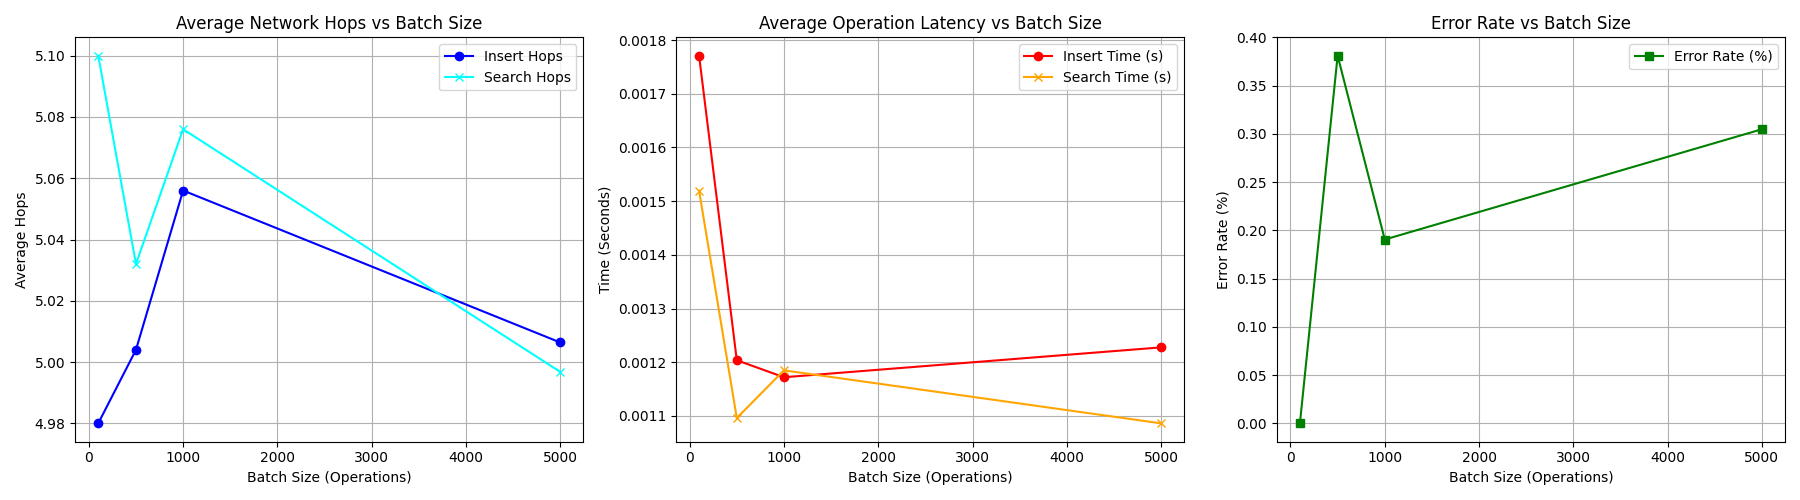
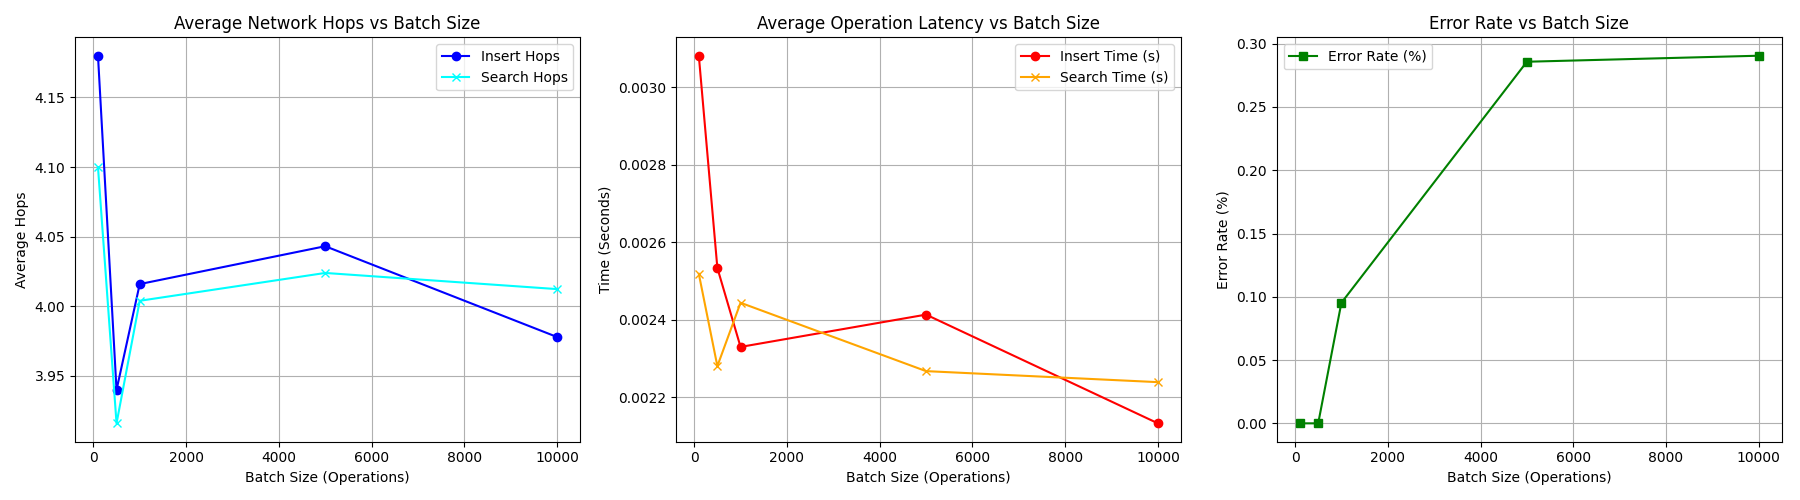
fix(communication): fixed the hops counter

diff --git a/p2p.py b/p2p.py
@@ -23,21 +23,21 @@ class Client:
         response = self._send_request(skiplist_pb2.ACTION_INSERT, data=data, hops=hops)
         if response.code == skiplist_pb2.CODE_ERROR:
             raise Exception(response.error)
-        return response.hops + 1
+        return response.hops
 
     def sendDelete(self, data, hops=1):
         response = self._send_request(skiplist_pb2.ACTION_DELETE, data=data, hops=hops)
         if response.code == skiplist_pb2.CODE_ERROR:
             raise Exception(response.error)
-        return response.hops + 1
+        return response.hops
 
     def sendSearch(self, data, hops=1):
         response = self._send_request(skiplist_pb2.ACTION_SEARCH, data=data, hops=hops)
         if response.code == skiplist_pb2.CODE_ERROR:
             raise Exception(response.error)
         if response.code == skiplist_pb2.CODE_NOT_FOUND:
-            return None, response.hops + 1
-        return pickle.loads(response.data), response.hops + 1
+            return None, response.hops
+        return pickle.loads(response.data), response.hops
 
 
 class Server(skiplist_pb2_grpc.SkipListServiceServicer):

diff --git a/distributed_skip_list.py b/distributed_skip_list.py
@@ -31,7 +31,7 @@ class DistributedSkipList(SkipList):
             res = super().search(data)
             return res, hops
 
-        res, total_hops = self.clients[site].sendSearch(data, hops)
+        res, total_hops = self.clients[site].sendSearch(data, hops + 1)
         return res, total_hops
 
     def insert(self, data, hops=0):
@@ -40,7 +40,7 @@ class DistributedSkipList(SkipList):
             super().insert(data)
             return None, hops
 
-        total_hops = self.clients[site].sendInsert(data, hops)
+        total_hops = self.clients[site].sendInsert(data, hops + 1)
         return None, total_hops
 
     def delete(self, data, hops=0):
@@ -49,5 +49,5 @@ class DistributedSkipList(SkipList):
             super().delete(data)
             return None, hops
 
-        total_hops = self.clients[site].sendDelete(data, hops)
+        total_hops = self.clients[site].sendDelete(data, hops + 1)
         return None, total_hops

diff --git a/user_simulation.py b/user_simulation.py
@@ -8,7 +8,7 @@ from p2p import Client
 # Configuration
 TARGET_HOST = os.getenv("TARGET_HOST", "site1:8000")
 STARTUP_DELAY = int(os.getenv("STARTUP_DELAY", "10"))
-BATCH_SIZES = [100, 500, 1000, 5000]
+BATCH_SIZES = [100, 500, 1000, 5000, 10000]
 
 # Define the output directory that is mapped to your host machine
 OUTPUT_DIR = "/app/results"
